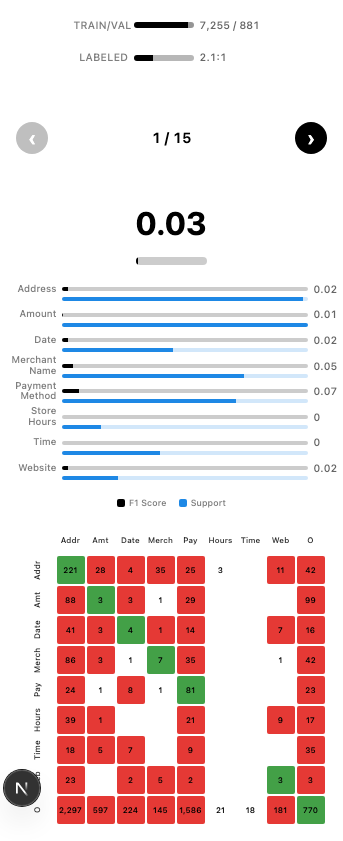
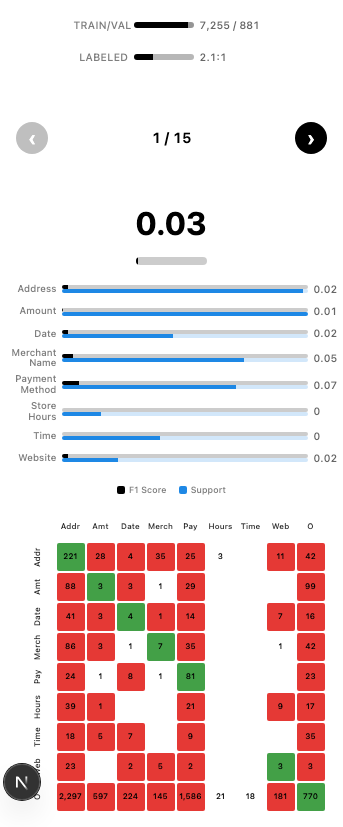
refactor: use bar stack layout for label distribution bars
Restructure LabelBar so both F1 and support bars live in a single
.labelBarStack flex-column inside one .labelRow. This eliminates the
dead space from separate rows and centers label text against both bars.

Removes .labelBarGroup and .labelDistRow classes in favor of the
simpler .labelBarStack approach.

diff --git a/portfolio/components/ui/Figures/TrainingMetricsAnimation/index.tsx b/portfolio/components/ui/Figures/TrainingMetricsAnimation/index.tsx
@@ -303,9 +303,9 @@ const LabelBar: React.FC<LabelBarProps> = ({ label, value, support, maxSupport }
   });
 
   return (
-    <div className={styles.labelBarGroup}>
-      <div className={styles.labelRow}>
-        <span className={styles.labelName}>{formatLabel(label)}</span>
+    <div className={styles.labelRow}>
+      <span className={styles.labelName}>{formatLabel(label)}</span>
+      <div className={styles.labelBarStack}>
         <div className={styles.labelBarSegmented}>
           <animated.div
             className={styles.labelBarFilled}
@@ -316,12 +316,6 @@ const LabelBar: React.FC<LabelBarProps> = ({ label, value, support, maxSupport }
             style={{ width: spring.width.to((w) => `${100 - w}%`) }}
           />
         </div>
-        <animated.span className={styles.labelBarValue}>
-          {spring.displayValue.to((v) => v.toFixed(2))}
-        </animated.span>
-      </div>
-      <div className={styles.labelDistRow}>
-        <span className={styles.labelName} />
         <div className={styles.labelBarDistribution}>
           <animated.div
             className={styles.labelBarDistFilled}
@@ -332,8 +326,10 @@ const LabelBar: React.FC<LabelBarProps> = ({ label, value, support, maxSupport }
             style={{ width: spring.distWidth.to((w) => `${100 - w}%`) }}
           />
         </div>
-        <span className={styles.labelBarValue} />
       </div>
+      <animated.span className={styles.labelBarValue}>
+        {spring.displayValue.to((v) => v.toFixed(2))}
+      </animated.span>
     </div>
   );
 };

diff --git a/portfolio/components/ui/Figures/TrainingMetricsAnimation/TrainingMetricsAnimation.module.css b/portfolio/components/ui/Figures/TrainingMetricsAnimation/TrainingMetricsAnimation.module.css
@@ -228,17 +228,18 @@
   width: 100%;
 }
 
-.labelBarGroup {
-  display: flex;
-  flex-direction: column;
-  gap: 0;
-}
-
 .labelRow {
   display: flex;
   align-items: center;
   gap: 0.5rem;
-  height: 20px;
+}
+
+.labelBarStack {
+  display: flex;
+  flex-direction: column;
+  flex: 1;
+  gap: 0;
+  min-width: 60px;
 }
 
 .labelName {
@@ -253,11 +254,9 @@
 
 .labelBarSegmented {
   display: flex;
-  flex: 1;
   height: 6px;
   border-radius: 3px;
   overflow: hidden;
-  min-width: 60px;
 }
 
 .labelBarFilled {
@@ -279,21 +278,11 @@
   text-align: left;
 }
 
-/* Distribution (support) bar row — compact, just bar height */
-.labelDistRow {
-  display: flex;
-  align-items: center;
-  gap: 0.5rem;
-  height: 6px;
-}
-
 .labelBarDistribution {
   display: flex;
-  flex: 1;
   height: 6px;
   border-radius: 3px;
   overflow: hidden;
-  min-width: 60px;
 }
 
 .labelBarDistFilled {
@@ -545,12 +534,7 @@
     gap: 0.35rem;
   }
 
-  .labelBarGroup {
-    gap: 0;
-  }
-
   .labelRow {
-    height: 16px;
     gap: 0.35rem;
   }
 
@@ -559,19 +543,16 @@
     font-size: 0.6rem;
   }
 
-  .labelBarSegmented {
-    height: 4px;
+  .labelBarStack {
     min-width: 40px;
   }
 
-  .labelDistRow {
-    gap: 0.35rem;
+  .labelBarSegmented {
     height: 4px;
   }
 
   .labelBarDistribution {
     height: 4px;
-    min-width: 40px;
   }
 
   .labelBarValue {
